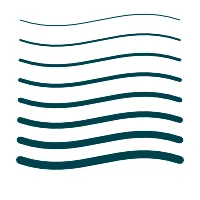
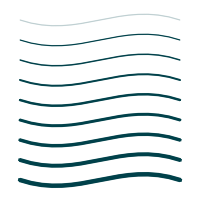
Adjust shape antialiasing
Slightly increase the edgeAA amount, to counter the smoothstepping.
So with e.g. 1px antialiasing the effective amount is that ~1px as
with smoothstep, values close to 0 and 1 don't do much.

Update the related examples.

Task-number: QTBUG-143201
Pick-to: 6.11

diff --git a/src/canvaspainter/qcpainter.cpp b/src/canvaspainter/qcpainter.cpp
@@ -561,15 +561,17 @@ void QCPainter::setMiterLimit(float limit)
 
 /*!
     Sets the line width of stroke to \a width in pixels.
-    The default line width is \c 1.0.
+    The default line width is \c 1.0. When the antialiasing is enabled,
+    the line widths under a single pixel automatically fade the
+    opacity, creating a smooth output.
     \table
     \row
     \li \inlineimage qcpainter-linewidth.webp
     \li
     \code
-    for (int i = 1; i < 9 ; i++) {
+    for (int i = 1; i < 10 ; i++) {
         int y = i * 20;
-        p->setLineWidth(i);
+        p->setLineWidth(0.5 * i);
         p->beginPath();
         p->moveTo(20, y);
         p->bezierCurveTo(80, y + 20, 120,
@@ -2250,7 +2252,7 @@ QRectF QCPainter::textBoundingBox(const QString &text, const QRectF &rect)
     Set the current antialiasing amount to \a antialias in pixels.
     More antialias means smoother painting. This only affects fill and stroke painting,
     not images or texts.
-    The default value is \c 1.0.
+    The default value is \c 1.0 and the maximum value is \c 10.0.
 
     Antialiasing can be modified per-path so it can be set before each stroke/fill.
     To disable antialiasing from the whole canvas painter, use
@@ -2261,12 +2263,13 @@ QRectF QCPainter::textBoundingBox(const QString &text, const QRectF &rect)
     \li
     \code
     p->setLineWidth(6);
-    for (int i = 0; i < 9 ; i++) {
+    for (int i = 1; i < 10 ; i++) {
+        int y = i * 20;
         p->setAntialias(i);
-        int y = 20 + i * 20;
         p->beginPath();
         p->moveTo(20, y);
-        p->lineTo(180, y);
+        p->bezierCurveTo(80, y + 20, 120,
+                         y - 20, 180, y);
         p->stroke();
     }
     \endcode

diff --git a/src/canvaspainter/engine/qcpainterengine.cpp b/src/canvaspainter/engine/qcpainterengine.cpp
@@ -40,6 +40,7 @@ QT_BEGIN_NAMESPACE
 static const float QCPAINTER_MAX_STROKE_WIDTH = 1000.0f;
 static const float QCPAINTER_MAX_ANTIALIAS_WIDTH = 10.0f;
 static const int QCPAINTER_MAX_TESSELATE_LEVEL = 11;
+static const float QCPAINTER_ANTIALIAS_MULTIPLIER = 1.25f;
 
 QCContext* QCPainterEngine::initialize(QCPainterRhiRenderer *renderer)
 {
@@ -1056,7 +1057,7 @@ QCDrawDebug QCPainterEngine::drawDebug() const
 void QCPainterEngine::setAntialias(float antialias)
 {
     antialias = std::clamp(antialias, 0.0f, QCPAINTER_MAX_ANTIALIAS_WIDTH);
-    ctx.edgeAAWidth = antialias / ctx.devicePxRatio;
+    ctx.edgeAAWidth = QCPAINTER_ANTIALIAS_MULTIPLIER * antialias / ctx.devicePxRatio;
 }
 
 void QCPainterEngine::setMiterLimit(float limit)
@@ -1105,7 +1106,7 @@ void QCPainterEngine::setDevicePixelRatio(float ratio)
         ctx.distTol = 0.01f / ratio;
         // Note: This is not called during the paint operations,
         // so it can set edgeAAWidth to default value.
-        ctx.edgeAAWidth = 1.0f / ratio;
+        ctx.edgeAAWidth = QCPAINTER_ANTIALIAS_MULTIPLIER / ratio;
         ctx.devicePxRatio = ratio;
     }
 }
@@ -2113,7 +2114,7 @@ QCPaint QCPainterEngine::getStrokePaint(float *strokeWidth, bool ignoreTransform
     float expa = 1.0f;
     if (*strokeWidth < ctx.edgeAAWidth) {
         // If the stroke width is less than pixel size, use alpha to emulate coverage.
-        float alpha = std::clamp(*strokeWidth / ctx.edgeAAWidth, 0.0f, 1.0f);
+        float alpha = std::clamp((*strokeWidth * QCPAINTER_ANTIALIAS_MULTIPLIER) / ctx.edgeAAWidth, 0.0f, 1.0f);
         // Since coverage is area, scale by alpha*alpha.
         expa = alpha * alpha;
         *strokeWidth = ctx.edgeAAWidth;
